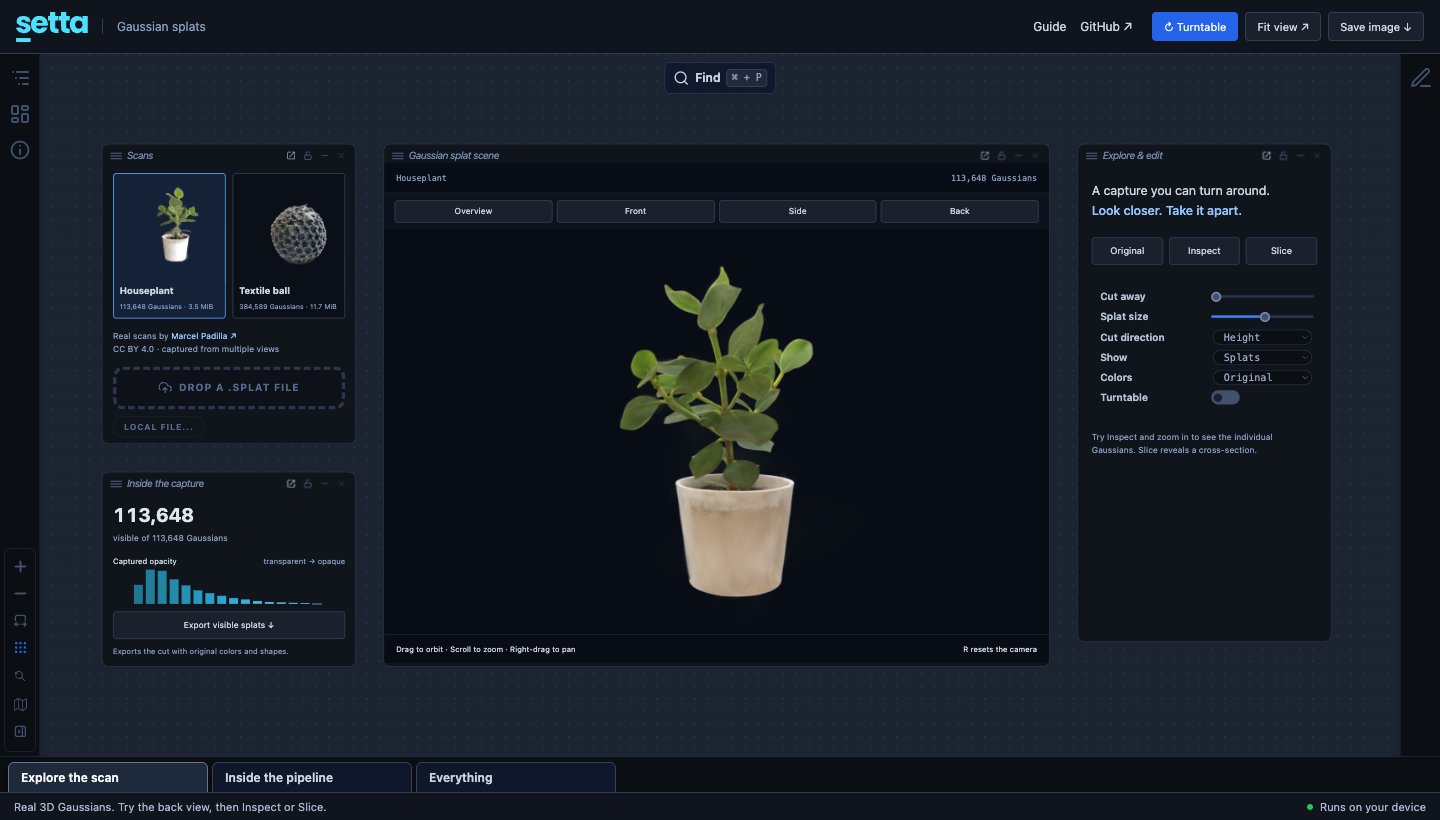
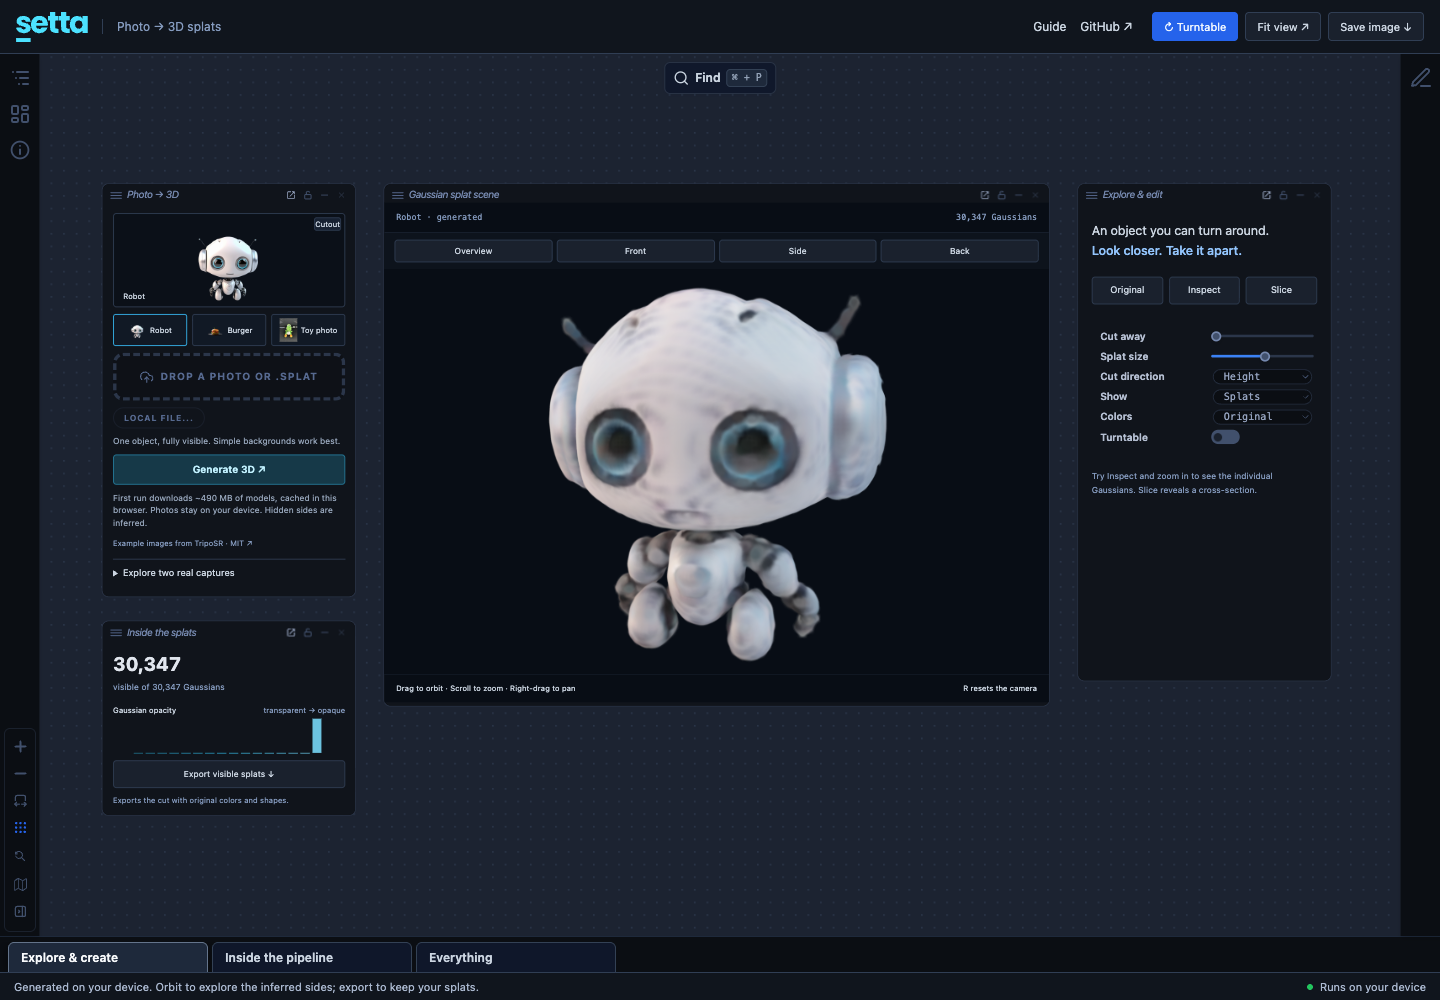
Add per-stage browser pipeline progress for photo reconstruction

diff --git a/packages/workspace/src/browser/pipeline.test.ts b/packages/workspace/src/browser/pipeline.test.ts
@@ -5,6 +5,7 @@ import { exposeBrowserPipeline } from "./worker";
 import type {
   BrowserPipelineWorker,
   BrowserPipelineWorkerScope,
+  BrowserStageProgress,
 } from "./types";
 
 class TestWorker extends EventTarget implements BrowserPipelineWorker {
@@ -24,6 +25,61 @@ class TestWorker extends EventTarget implements BrowserPipelineWorker {
 afterEach(() => vi.useRealTimers());
 
 describe("browser pipeline execution", () => {
+  it("delivers progress during work and ignores reports after settlement or abort", async () => {
+    const reports = vi.fn();
+    let late: ((progress: BrowserStageProgress) => void) | undefined;
+    const controller = new AbortController();
+    await expect(
+      executeBrowserPipeline(
+        [
+          {
+            id: "download",
+            run: ({ reportProgress }) => {
+              late = reportProgress;
+              reportProgress({ fraction: 0.25, message: "Downloading" });
+              return "model";
+            },
+          },
+          {
+            id: "infer",
+            dependencies: ["download"],
+            run: ({ reportProgress }) => {
+              late!({ fraction: 0.75 });
+              reportProgress({ message: "Inferring" });
+              controller.abort();
+              reportProgress({ fraction: 1 });
+            },
+          },
+        ],
+        null,
+        controller.signal,
+        undefined,
+        reports,
+      ),
+    ).rejects.toThrow();
+    late!({ fraction: 1 });
+    expect(reports.mock.calls).toEqual([
+      ["download", { fraction: 0.25, message: "Downloading" }],
+      ["infer", { message: "Inferring" }],
+    ]);
+  });
+
+  it("rejects invalid fractions as stage errors", async () => {
+    for (const fraction of [-1, 1.1, NaN, Infinity]) {
+      await expect(
+        executeBrowserPipeline(
+          [
+            {
+              id: "work",
+              run: ({ reportProgress }) => reportProgress({ fraction }),
+            },
+          ],
+          null,
+          new AbortController().signal,
+        ),
+      ).rejects.toThrow("between zero and one");
+    }
+  });
   it("runs shared ancestors once and joins results from the same input", async () => {
     const prepare = vi.fn(({ input }: { input: number }) => input * 2);
     const result = await executeBrowserPipeline(
@@ -103,7 +159,13 @@ describe("browser pipeline execution", () => {
         target.removeEventListener(type, listener as EventListener),
     };
     const stop = exposeBrowserPipeline(scope, [
-      { id: "double", run: ({ input }: { input: number }) => input * 2 },
+      {
+        id: "double",
+        run: ({ input, reportProgress }) => {
+          reportProgress({ fraction: 0.5 });
+          return Number(input) * 2;
+        },
+      },
     ]);
     target.dispatchEvent(
       new MessageEvent("message", {
@@ -117,6 +179,12 @@ describe("browser pipeline execution", () => {
         output: { double: 16 },
       }),
     );
+    expect(messages).toContainEqual({
+      type: "progress",
+      revision: 7,
+      id: "double",
+      progress: { fraction: 0.5 },
+    });
     stop();
     const count = messages.length;
     target.dispatchEvent(
@@ -130,6 +198,47 @@ describe("browser pipeline execution", () => {
 });
 
 describe("browser pipeline lifecycle", () => {
+  it("isolates progress by revision without completing work or extending its deadline", () => {
+    vi.useFakeTimers();
+    const worker = new TestWorker();
+    const pipeline = createBrowserPipeline<number>({
+      createWorker: () => worker,
+      timeoutMs: 50,
+    });
+    pipeline.run(1);
+    worker.reply({
+      type: "progress",
+      revision: 1,
+      id: "load",
+      progress: { fraction: 0.2 },
+    });
+    expect(pipeline.getSnapshot()).toMatchObject({
+      status: "running",
+      progress: { load: { fraction: 0.2 } },
+    });
+    pipeline.run(2);
+    worker.reply({
+      type: "progress",
+      revision: 1,
+      id: "load",
+      progress: { fraction: 0.5 },
+    });
+    expect(pipeline.getSnapshot().progress).toEqual({});
+    worker.reply({ type: "result", revision: 1, output: {} });
+    vi.advanceTimersByTime(30);
+    worker.reply({
+      type: "progress",
+      revision: 2,
+      id: "load",
+      progress: { fraction: 0.6 },
+    });
+    expect(pipeline.getSnapshot().progress.load).toEqual({ fraction: 0.6 });
+    vi.advanceTimersByTime(20);
+    expect(pipeline.getSnapshot().status).toBe("error");
+    pipeline.cancel();
+    expect(pipeline.getSnapshot().progress).toEqual({});
+    pipeline.dispose();
+  });
   it("coalesces changing inputs and rejects an older result", () => {
     const worker = new TestWorker();
     const pipeline = createBrowserPipeline<number>({

diff --git a/packages/workspace/src/browser/client.ts b/packages/workspace/src/browser/client.ts
@@ -21,6 +21,7 @@ export function createBrowserPipeline<
     status: "idle",
     output: null,
     stages: {},
+    progress: {},
     error: null,
   };
   const listeners = new Set<() => void>();
@@ -81,17 +82,25 @@ export function createBrowserPipeline<
       });
     }
   };
+  const updateStage = (
+    message: Extract<BrowserPipelineMessage, { type: "stage" | "progress" }>,
+  ) => {
+    if (message.revision !== snapshot.revision) return;
+    if (message.type === "stage")
+      publish({ stages: { ...snapshot.stages, [message.id]: message.status } });
+    else
+      publish({
+        progress: { ...snapshot.progress, [message.id]: message.progress },
+      });
+  };
   const receive: EventListener = (event) => {
     const message = (event as MessageEvent<BrowserPipelineMessage>).data;
     if (disposed || message.revision !== active) return;
-    const current = message.revision === snapshot.revision;
-    if (message.type === "stage") {
-      if (current)
-        publish({
-          stages: { ...snapshot.stages, [message.id]: message.status },
-        });
+    if (message.type === "stage" || message.type === "progress") {
+      updateStage(message);
       return;
     }
+    const current = message.revision === snapshot.revision;
     clearTimeout(timer);
     active = null;
     if (current && message.type === "result") {
@@ -111,7 +120,13 @@ export function createBrowserPipeline<
       if (disposed) throw new Error("Browser pipeline is disposed.");
       const revision = snapshot.revision + 1;
       queued = { revision, input: structuredClone(input) };
-      publish({ revision, status: "running", stages: {}, error: null });
+      publish({
+        revision,
+        status: "running",
+        stages: {},
+        progress: {},
+        error: null,
+      });
       start();
       return revision;
     },
@@ -119,7 +134,7 @@ export function createBrowserPipeline<
       if (disposed) return;
       queued = null;
       stopWorker();
-      publish({ status: "cancelled", stages: {}, error: null });
+      publish({ status: "cancelled", stages: {}, progress: {}, error: null });
     },
     dispose() {
       disposed = true;

diff --git a/packages/workspace/src/browser/execute.ts b/packages/workspace/src/browser/execute.ts
@@ -1,4 +1,8 @@
-import type { BrowserPipelineStage, BrowserStageStatus } from "./types";
+import type {
+  BrowserPipelineStage,
+  BrowserStageProgress,
+  BrowserStageStatus,
+} from "./types";
 
 export function validateBrowserPipeline<Input>(
   stages: readonly BrowserPipelineStage<Input>[],
@@ -31,6 +35,7 @@ export async function executeBrowserPipeline<Input>(
   input: Input,
   signal: AbortSignal,
   onStage: (id: string, status: BrowserStageStatus) => void = () => {},
+  onProgress: (id: string, progress: BrowserStageProgress) => void = () => {},
 ): Promise<Record<string, unknown>> {
   validateBrowserPipeline(stages);
   const byId = new Map(stages.map((stage) => [stage.id, stage]));
@@ -46,11 +51,25 @@ export async function executeBrowserPipeline<Input>(
     ).then(async (entries) => {
       signal.throwIfAborted();
       onStage(id, "running");
+      let running = true;
       try {
         const result = await stage.run({
           input,
           dependencies: Object.fromEntries(entries),
           signal,
+          reportProgress: (progress) => {
+            if (!running || signal.aborted) return;
+            if (
+              progress.fraction !== undefined &&
+              (!Number.isFinite(progress.fraction) ||
+                progress.fraction < 0 ||
+                progress.fraction > 1)
+            )
+              throw new RangeError(
+                "Stage progress must be between zero and one.",
+              );
+            onProgress(id, { ...progress });
+          },
         });
         signal.throwIfAborted();
         onStage(id, "ready");
@@ -58,6 +77,8 @@ export async function executeBrowserPipeline<Input>(
       } catch (error) {
         onStage(id, "error");
         throw error;
+      } finally {
+        running = false;
       }
     });
     pending.set(id, task);

diff --git a/packages/workspace/src/browser/types.ts b/packages/workspace/src/browser/types.ts
@@ -3,10 +3,16 @@ export type BrowserPipelineStatus =
 
 export type BrowserStageStatus = "running" | "ready" | "error";
 
+export interface BrowserStageProgress {
+  fraction?: number;
+  message?: string;
+}
+
 export interface BrowserStageContext<Input> {
   input: Input;
   dependencies: Readonly<Record<string, unknown>>;
   signal: AbortSignal;
+  reportProgress: (progress: BrowserStageProgress) => void;
 }
 
 export interface BrowserPipelineStage<Input> {
@@ -21,6 +27,7 @@ export interface BrowserPipelineSnapshot<Output> {
   status: BrowserPipelineStatus;
   output: Output | null;
   stages: Readonly<Record<string, BrowserStageStatus>>;
+  progress: Readonly<Record<string, BrowserStageProgress>>;
   error: string | null;
 }
 
@@ -59,5 +66,11 @@ export interface BrowserPipelineWorkerScope {
 
 export type BrowserPipelineMessage =
   | { type: "stage"; revision: number; id: string; status: BrowserStageStatus }
+  | {
+      type: "progress";
+      revision: number;
+      id: string;
+      progress: BrowserStageProgress;
+    }
   | { type: "result"; revision: number; output: Record<string, unknown> }
   | { type: "error"; revision: number; error: string };

diff --git a/packages/workspace/src/browser/worker.ts b/packages/workspace/src/browser/worker.ts
@@ -25,6 +25,9 @@ export function exposeBrowserPipeline<Input>(
       (id, status) => {
         send({ type: "stage", revision, id, status });
       },
+      (id, progress) => {
+        send({ type: "progress", revision, id, progress });
+      },
     )
       .then(
         (output) => send({ type: "result", revision, output }),

diff --git a/packages/workspace/src/browser/index.ts b/packages/workspace/src/browser/index.ts
@@ -9,5 +9,6 @@ export type {
   BrowserPipelineWorker,
   BrowserPipelineWorkerScope,
   BrowserStageContext,
+  BrowserStageProgress,
   BrowserStageStatus,
 } from "./types";

diff --git a/README.md b/README.md
@@ -9,12 +9,12 @@ Compose React workspaces with typed controls, nested sections, editors, graphs, 
 and floating windows. Run live computations in browser workers, or connect a local Go backend
 when your tool needs files, Python, or native processes.
 
-[**Explore the Gaussian splat studio →**](https://setta.dev) ·
+[**Turn a photo into 3D →**](https://setta.dev) ·
 [Frontend API](packages/workspace/README.md) ·
 [Browser pipelines](packages/workspace/BROWSER.md) ·
 [Go library](packages/local-backend/README.md)
 
-[![The Setta playground: real Gaussian captures, a 3D scene, native controls, and a splat inspector.](images/splat-playground.png)](https://setta.dev)
+[![The Setta playground: photo reconstruction, a 3D Gaussian scene, native controls, and a splat inspector.](images/splat-playground.png)](https://setta.dev)
 
 ## The libraries
 
@@ -27,10 +27,11 @@ when your tool needs files, Python, or native processes.
 Use them together or independently. Your application owns its data, computations, persistence,
 and routes. Setta supplies the workspace and execution building blocks.
 
-The [Gaussian splat playground](https://setta.dev) lets you orbit real captured objects, inspect
-individual Gaussians, cut cross-sections, and export a scene. The public browser pipeline reads,
-validates, measures, and packs scans, while native Setta controls shape the Spark/Three.js rendering.
-The independent site consumes the compiled library and runs entirely on static hosting.
+The [Gaussian splat playground](https://setta.dev) turns a photo of one object into an inferred 3D
+surface and exports it as Gaussian splats. Setta runs background removal, WebGPU reconstruction,
+surface sampling, and GPU packing in a worker with live progress and cancellation. Native controls
+let you orbit, inspect, and slice the result. The independent site owns its ML models and renderer;
+the libraries acquire no ML dependencies. Everything runs on static hosting, with no photo upload.
 
 ## Start building
 

diff --git a/packages/workspace/BROWSER.md b/packages/workspace/BROWSER.md
@@ -2,8 +2,8 @@
 
 `@riteofstring/setta/browser` runs application-owned computations in a Web Worker. It works on
 static hosting without a Go server, Python, React, or the workspace UI at runtime. The
-[Gaussian splat playground](https://setta.dev) uses it to read captures, validate Gaussian records,
-measure bounds and opacity, and pack data for GPU rendering.
+[Gaussian splat playground](https://setta.dev) uses it for local photo reconstruction, model-download
+progress, surface sampling, Gaussian validation, and GPU packing.
 
 ## A worker with dependent stages
 
@@ -70,8 +70,13 @@ render-time side effects.
   fresh instance. Handler errors retain the last successful output and are exposed in `error`.
 - `stages` reports `running`, `ready`, or `error` for the current revision. A failed stage prevents
   its dependents from running. Handlers should honor cancellation when awaiting external work.
+- A handler can call `reportProgress({ fraction: 0.5, message: "Downloaded 240 MB" })`.
+  Both fields are optional; a supplied fraction must be finite and between zero and one.
+  `snapshot.progress[stageId]` contains the latest report for the current revision. Progress resets
+  on a new request or cancellation. Late reports after the handler settles are ignored. Progress
+  does not extend the run deadline or replace the last successful output.
 
-`executeBrowserPipeline(stages, input, signal, onStage?)` also executes the graph directly, useful
+`executeBrowserPipeline(stages, input, signal, onStage?, onProgress?)` also executes the graph directly, useful
 for tests or an existing worker host. `validateBrowserPipeline(stages)` checks the graph alone.
 `exposeBrowserPipeline(scope, stages)` returns a disposer for hosts that own a longer-lived worker.
 The client factory must return a dedicated worker that the pipeline is allowed to terminate.

diff --git a/docs/design/workspace.md b/docs/design/workspace.md
@@ -447,6 +447,12 @@ cancellation, and worker recovery belong to this package. Cancellation terminate
 worker so synchronous handlers cannot prevent recovery. Worker inputs are cloned on admission so
 later caller mutation cannot alter queued work. The caller supplies a fresh worker factory for restarts.
 
+Long downloads and batched computations report optional fractional progress and application-owned
+messages through the stage context. Progress shares the run revision and lifecycle with stage status;
+it cannot replace output, extend deadlines, or revive a cancelled or superseded run. Reports after a
+handler settles are ignored. The client keeps the latest report per stage, resetting it on each new
+request or cancellation. Models, download/cache policy, and GPU resources remain application-owned.
+
 The npm artifact exports ESM, declarations, compiled scoped styles, and the independent browser
 entry under the canonical `@riteofstring/setta` name. Examples stay private; the library carries its
 own Apache license and public repository metadata. Source aliases are not a consumer API.
